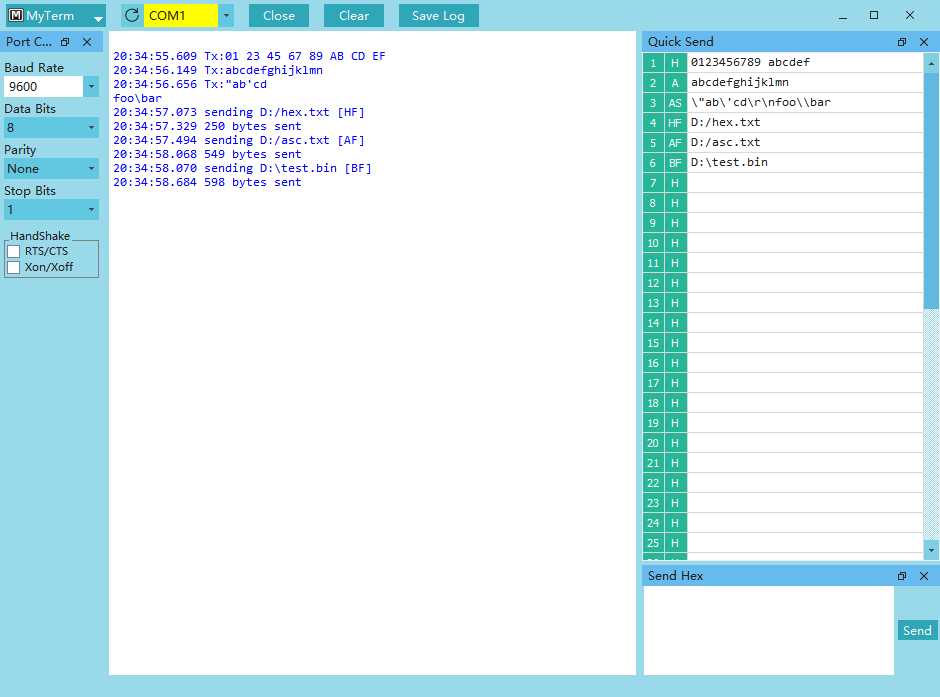
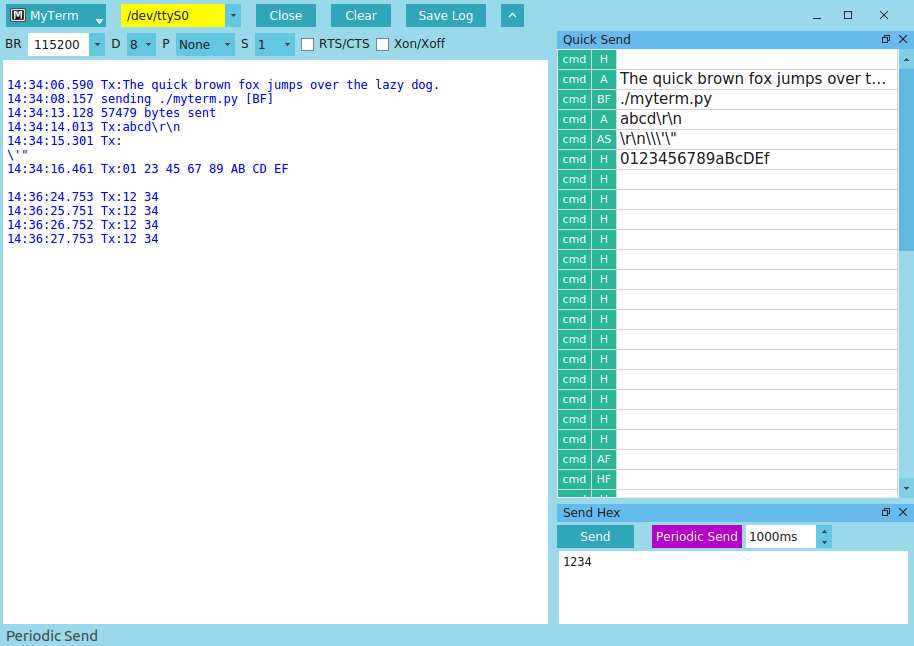
Version 2.3.0

diff --git a/whatsnew.htm b/whatsnew.htm
@@ -27,6 +27,15 @@
 MyTerm is licensed on all supported platforms under the <a href="http://www.gnu.org/licenses/">GNU GPL v3</a>.
 </p>
 
+<p><a name="2.3.0"></a><span class="ver">2.3.0 </span><span class="date">(2020-08-20)</span></p>
+<ul>
+<li>Rework PortConfig panel.</li>
+<li>Changing port config don't need restart port.</li>
+<li>Display port friendly name in combobox.</li>
+<li>Add Periodic Send.</li>
+<li>Set tab size = 4.</li>
+</ul>
+
 <p><a name="2.2.0"></a><span class="ver">2.2.0 </span><span class="date">(2020-05-07)</span></p>
 <ul>
 <li>A cleaner user interface and a new icon.</li>
@@ -65,7 +74,7 @@ MyTerm is licensed on all supported platforms under the <a href="http://www.gnu.
 
 <p><a name="2.0.0"></a><span class="ver">2.0.0 </span><span class="date">(2016-11-07)</span></p>
 <ul>
-<li>Remake UI with PyQt4 instead of wxPython</li>
+<li>Rework UI with PyQt4 instead of wxPython</li>
 <li>The <tt>Port Config</tt>, <tt>Quick Send</tt>, <tt>Send Hex</tt> panels are custom resizable and floatable.</li> 
 <li>The user can send custom commands in <tt>Quick Send</tt> panel now.</li>
 <li>Bug fixes</li>

diff --git a/appInfo.py b/appInfo.py
@@ -25,7 +25,7 @@
 
 
 title = 'MyTerm'
-version = '2.2.0'
+version = '2.3.0'
 url = 'http://sourceforge.net/projects/myterm/'
 author = 'gamesun'
 copyright = 'Copyright (C) 2013-2020, gamesun'

diff --git a/README.md b/README.md
@@ -31,4 +31,3 @@ The package for Linux is being prepared.
 ## Entirely new UI
 ![main window](doc/main_window.png "main window")
 
-![floatable windows](doc/floatable_windows.png "floatable windows")
